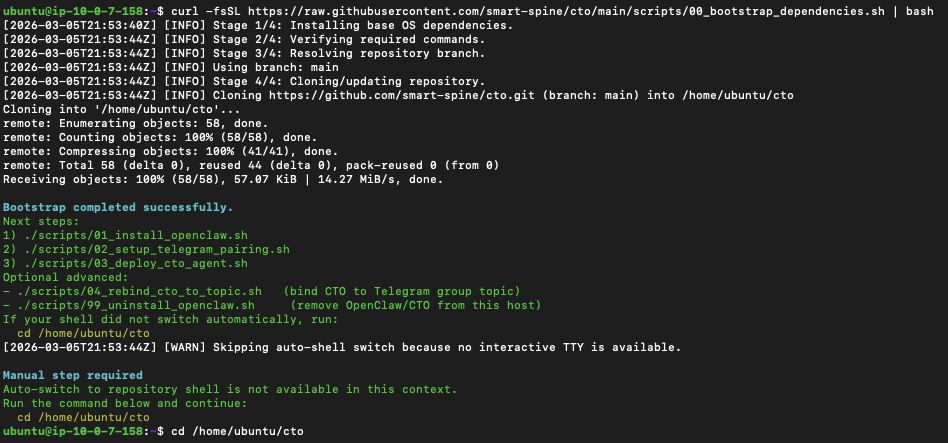
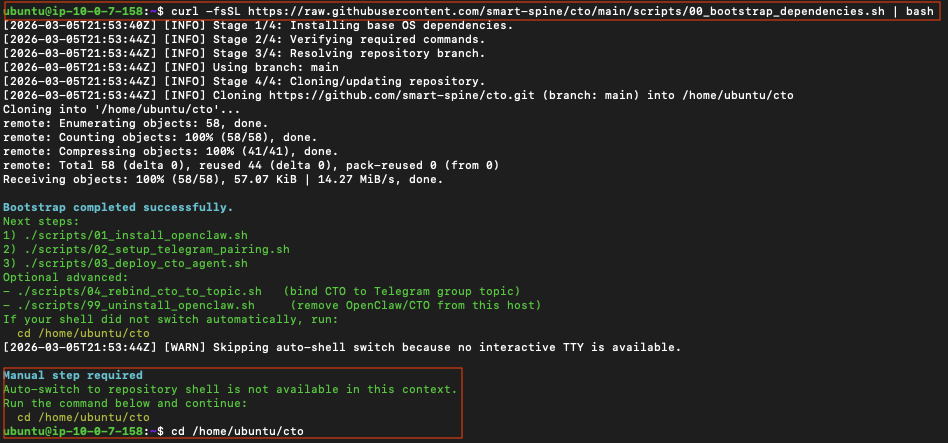
docs: refresh bootstrap and pairing guidance

Changed region(s): [[0.0, 0.0, 1.0, 0.0587], [0.0, 0.9684, 0.4895, 0.9977], [0.0, 0.8217, 0.4895, 0.851]]

diff --git a/README.md b/README.md
@@ -68,7 +68,7 @@ Script `00` will:
 - try to switch you into `~/cto`
 - print color-highlighted next steps
 
-If shell handoff is not available (common with `curl | bash`), run manually:
+If shell handoff is not available (common with `curl | bash`), run the command below and continue:
 
 ```bash
 cd ~/cto
@@ -116,26 +116,18 @@ When the script pauses for pairing:
 3. Send any message to the bot.
 4. Wait for the `pairing required` reply.
 5. Return to the terminal and press `ENTER`.
+6. When pairing is approved, copy the Telegram user ID printed in the console.
 
 <img src="docs/images/deploy-console/03-pairing-console.png" alt="Telegram pairing console output" width="960">
 
-### 4) Get your Telegram numeric user ID
-
-In Telegram, send this to your bot:
-
-```text
-/whoami
-```
-
-Save the numeric user ID.
-
-### 5) Deploy CTO agent (direct chat binding)
+### 4) Deploy CTO agent (direct chat binding)
 
 ```bash
 ./scripts/03_deploy_cto_agent.sh
 ```
 
 Script `03` deploys `cto-factory` and binds it to **direct chat** with your Telegram user.
+When prompted for the Telegram user ID, paste the ID that Script `02` printed after pairing approval.
 
 <img src="docs/images/deploy-console/04-deploy-console.png" alt="CTO agent deployment console output" width="960">
 
